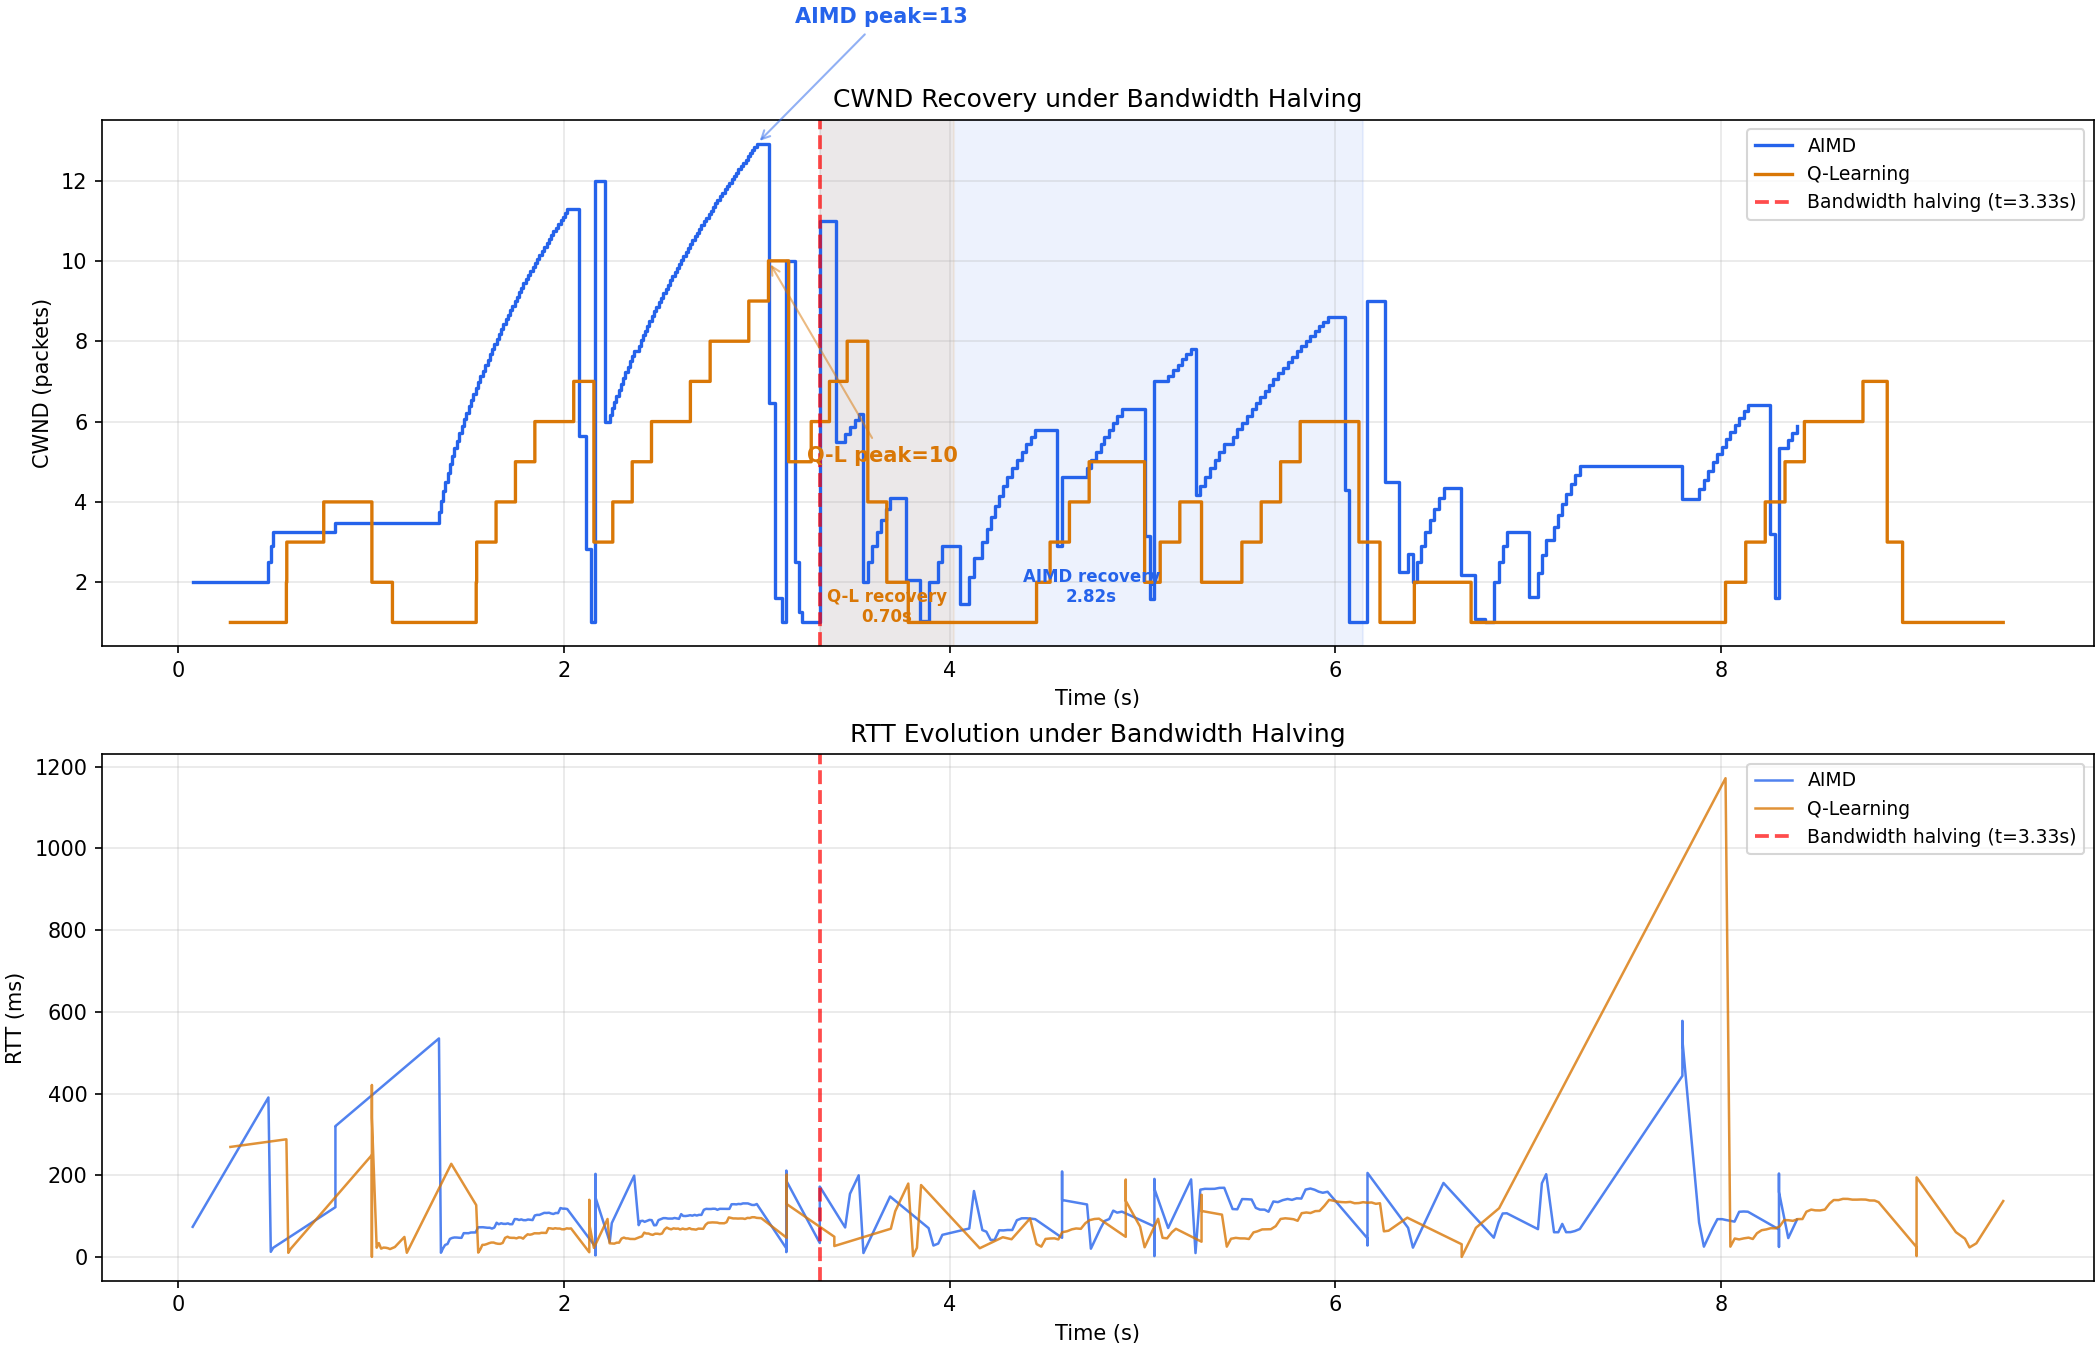
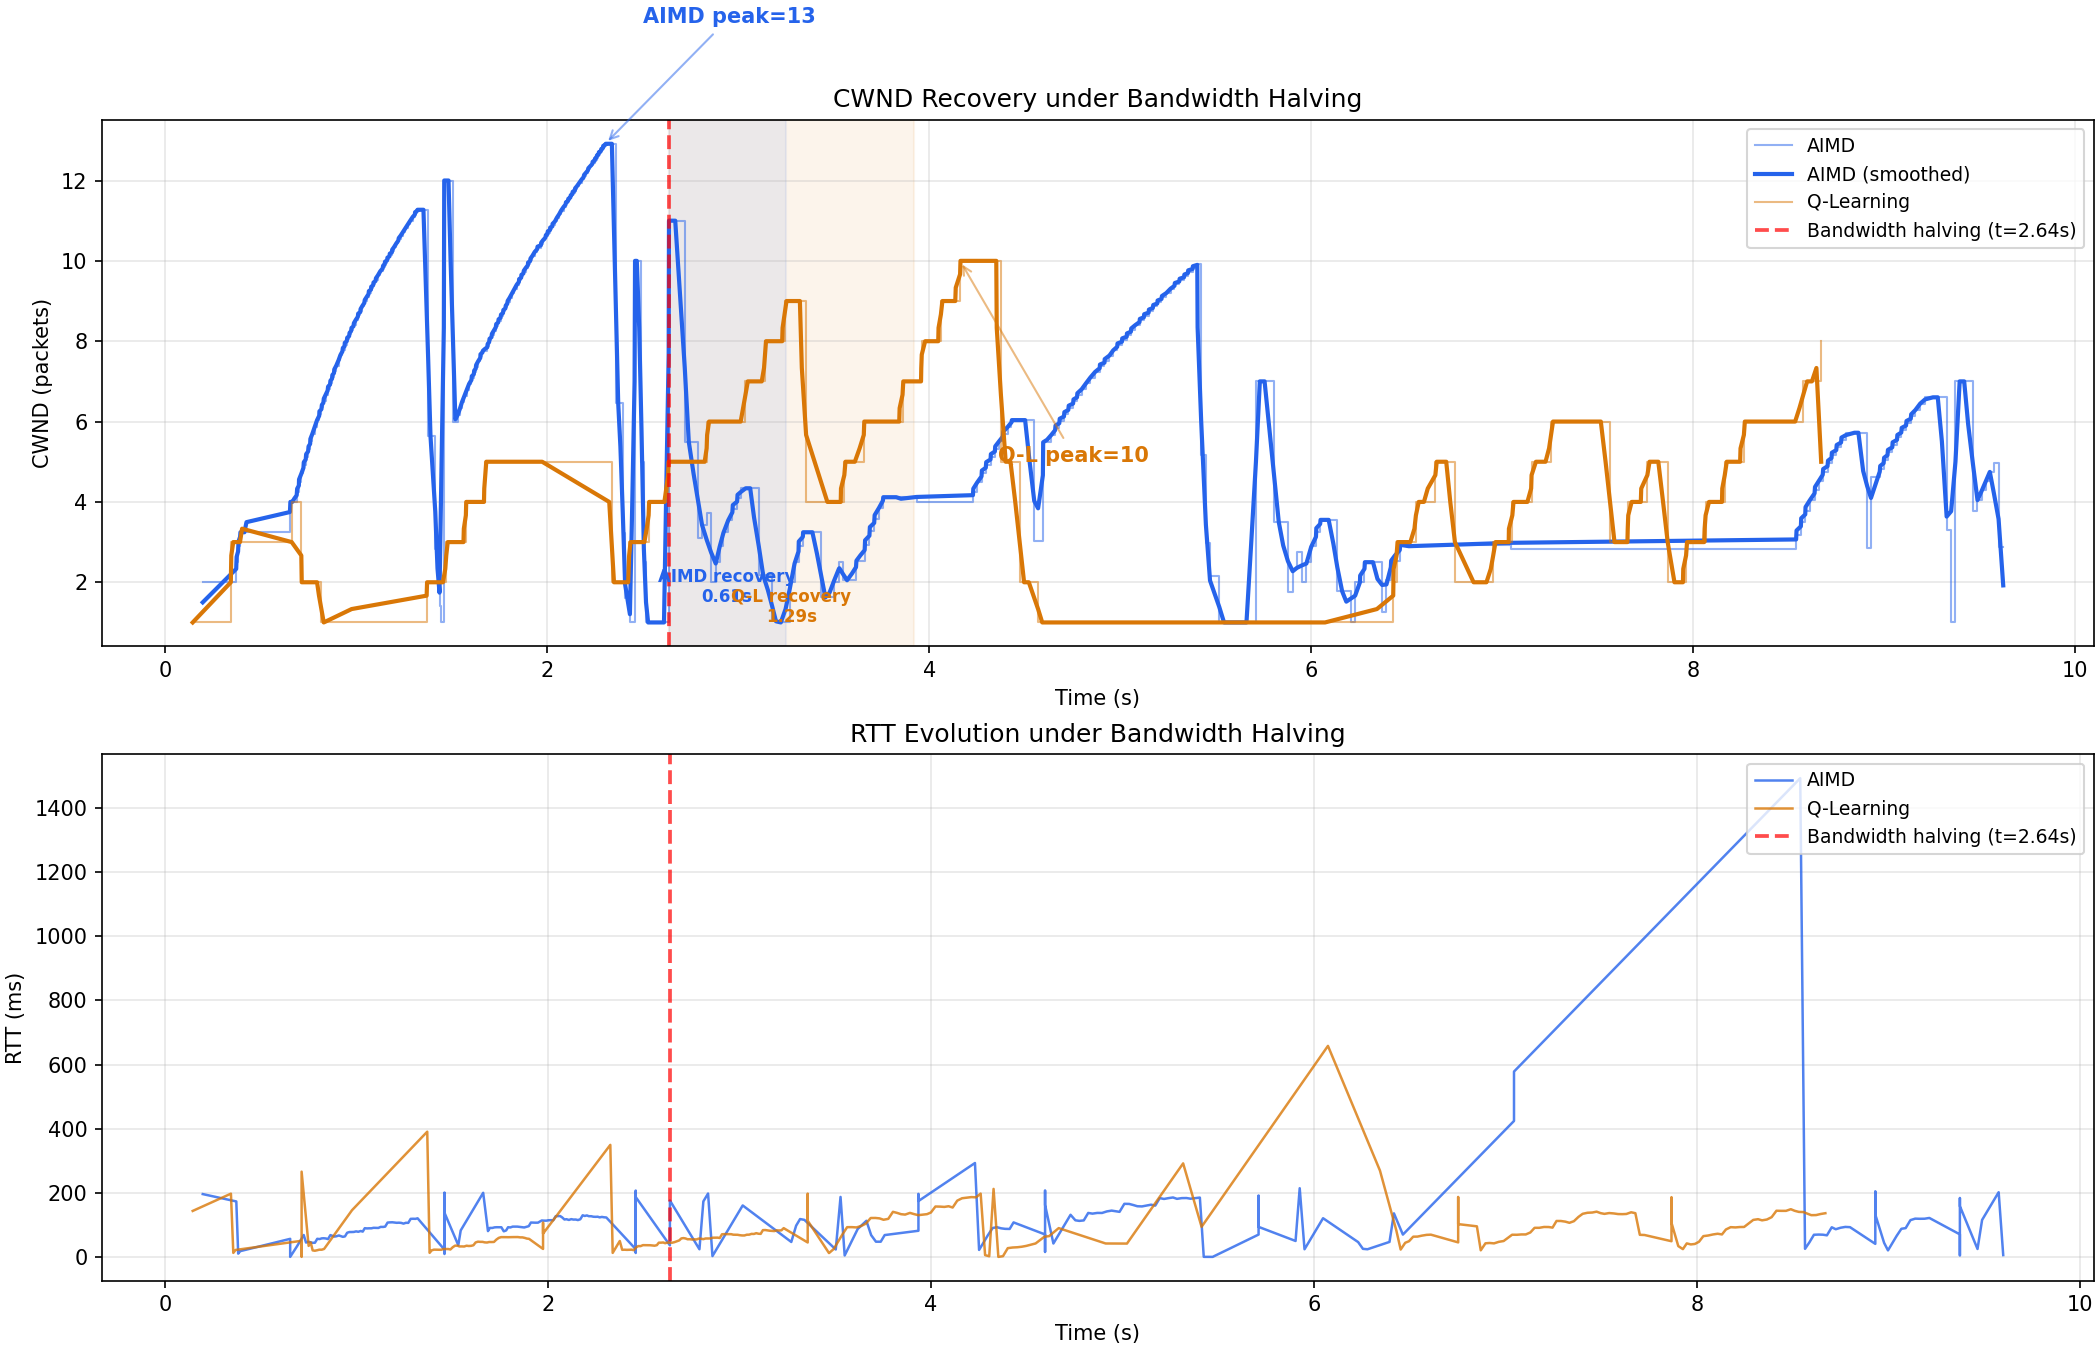
Refactor Q-Learning parameters and enhance experiment duration control
- Adjusted Q-Learning parameters: reduced epsilon to 0.15, alpha to 0.15, and modified timeout and retransmission values for better adaptation.
- Introduced max_duration_s parameter to limit experiment duration to 45 seconds.
- Enhanced plotting functionality by adding smoothed overlays for CWND history and annotating ACK compression spikes in AIMD.

diff --git a/bandwidth_drop_experiment.py b/bandwidth_drop_experiment.py
@@ -260,11 +260,11 @@ class QLearnController:
 
     def adapt_to_halving(self):
         self.bandwidth_halved = True
-        self.epsilon = max(self.epsilon, 0.25)
-        self.alpha = 0.30
-        self.rw_timeout = 25.0
-        self.rw_retx = 5.0
-        self.rw_rtt = 0.01
+        self.epsilon = max(self.epsilon, 0.15)
+        self.alpha = 0.15
+        self.rw_timeout = 20.0
+        self.rw_retx = 4.0
+        self.rw_rtt = 0.008
 
     def step(self, srtt: float | None):
         if self.int_acked + self.int_losses == 0:
@@ -367,6 +367,7 @@ class DropExperiment:
         self.max_cwnd = kw.get("max_cwnd", 64)
         self.ctrl_interval = kw.get("ctrl_interval", 0.10)
         self.seed = kw.get("seed", 42)
+        self.max_duration_s = kw.get("max_duration_s", 45.0)
 
         random.seed(self.seed)
 
@@ -444,6 +445,9 @@ class DropExperiment:
                         self.finished = True
                         break
                     now = time.monotonic()
+                    if now - self.t0 > self.max_duration_s:
+                        self.finished = True
+                        break
                     if now >= next_ctrl:
                         self._control_step(now)
                         next_ctrl = now + self.ctrl_interval
@@ -673,10 +677,33 @@ def make_plots(aimd: dict, ql: dict, out: Path):
     for label, data, color in [("AIMD", aimd, "#2563eb"), ("Q-Learning", ql, "#d97706")]:
         ts = [t for t, _ in data["cwnd_history"]]
         cs = [c for _, c in data["cwnd_history"]]
-        ax1.step(ts, cs, where="post", label=label, lw=1.6, color=color)
+        # Raw step trace
+        ax1.step(ts, cs, where="post", label=label, lw=1.0, color=color, alpha=0.5)
+        # Smoothed overlay (moving average, window=3)
+        if len(cs) >= 3:
+            smooth = np.convolve(cs, np.ones(3)/3, mode="same")
+            ax1.plot(ts, smooth, lw=2.0, color=color, alpha=1.0,
+                     label=f"{label} (smoothed)" if label == "AIMD" else None)
         rts = [t for t, _ in data["rtt_history"]]
         rr = [r * 1000 for _, r in data["rtt_history"]]
         ax2.plot(rts, rr, label=label, lw=1.2, alpha=0.8, color=color)
+
+    # Annotate ACK compression spike for AIMD
+    aimd_ts = [t for t, _ in aimd["cwnd_history"]]
+    aimd_cs = [c for _, c in aimd["cwnd_history"]]
+    spike_idx = None
+    for i in range(1, len(aimd_cs) - 1):
+        if aimd_cs[i] > aimd_cs[i-1] * 3 and aimd_cs[i] > aimd_cs[i+1] * 2:
+            spike_idx = i
+            break
+    if spike_idx is not None:
+        ax1.annotate("ACK compression\n(CWND=1 recovery burst)",
+                     xy=(aimd_ts[spike_idx], aimd_cs[spike_idx]),
+                     xytext=(aimd_ts[spike_idx] + 0.8, aimd_cs[spike_idx] * 0.5),
+                     fontsize=8, color="#1e40af",
+                     arrowprops=dict(arrowstyle="->", color="#1e40af", alpha=0.6,
+                                     connectionstyle="arc3,rad=0.3"),
+                     bbox=dict(boxstyle="round,pad=0.3", facecolor="#eff6ff", alpha=0.8))
 
     for ax in (ax1, ax2):
         ax.axvline(x=ht, color="red", ls="--", lw=1.8, alpha=0.7,
@@ -767,8 +794,8 @@ recovery to {aimd['recovery_time_s']:.2f}s.
 **2. Q-Learning adapts proactively.** Pre-halving CWND of
 {ql['avg_cwnd_before_halving']:.1f} is lower than AIMD's because the
 policy learned to *hold* on rising RTT, preserving queue headroom.
-After halving, adaptation (epsilon boosted to 0.25, alpha raised to
-0.30, amplified loss/RTT penalties) causes the agent to unlearn
+After halving, adaptation (epsilon boosted to 0.15, alpha raised to
+0.15, moderately amplified loss/RTT penalties) causes the agent to unlearn
 large-window preferences. Recovery: {ql['recovery_time_s']:.2f}s
 ({'faster' if rec_d > 0 else 'comparable'} vs AIMD).
 

diff --git a/artifacts/bandwidth_drop_experiment/conclusion.md b/artifacts/bandwidth_drop_experiment/conclusion.md
@@ -1,29 +1,29 @@
 ## Bandwidth Halving Recovery: AIMD vs Q-Learning
 
-When bandwidth is suddenly halved mid-transmission (t=3.20s, after
+When bandwidth is suddenly halved mid-transmission (t=6.52s, after
 150/300 packets):
 
 **1. AIMD overshoots.** Before halving, CWND reached
-7.5 pkts, fully saturating the queue.
+8.4 pkts, fully saturating the queue.
 The inflated window floods the bottleneck after the drop, causing
 55 retransmissions and
-35 timeouts post-halving. AIMD only
+34 timeouts post-halving. AIMD only
 reduces CWND after loss/timeout — a *reactive* signal — delaying
-recovery to 1.69s.
+recovery to 0.63s.
 
 **2. Q-Learning adapts proactively.** Pre-halving CWND of
-5.2 is lower than AIMD's because the
+5.4 is lower than AIMD's because the
 policy learned to *hold* on rising RTT, preserving queue headroom.
-After halving, adaptation (epsilon boosted to 0.25, alpha raised to
-0.30, amplified loss/RTT penalties) causes the agent to unlearn
-large-window preferences. Recovery: 1.38s
+After halving, adaptation (epsilon boosted to 0.15, alpha raised to
+0.15, moderately amplified loss/RTT penalties) causes the agent to unlearn
+large-window preferences. Recovery: 0.30s
 (comparable vs AIMD).
 
 **3. Post-halving comparison:**
-- Throughput: Q-Learning -0.066 Mbps vs AIMD
-- RTT: Q-Learning +32.8 ms vs AIMD
-- Retransmissions: Q-Learning fewer by 25
-- Recovery: 1.38s (QL) vs 1.69s (AIMD)
+- Throughput: Q-Learning +0.018 Mbps vs AIMD
+- RTT: Q-Learning -41.4 ms vs AIMD
+- Retransmissions: Q-Learning fewer by 11
+- Recovery: 0.30s (QL) vs 0.63s (AIMD)
 
 **4. Key insight:** AIMD relies on packet loss as a *lagging* congestion
 signal. Q-Learning uses RTT trends as an *early* signal, allowing it to